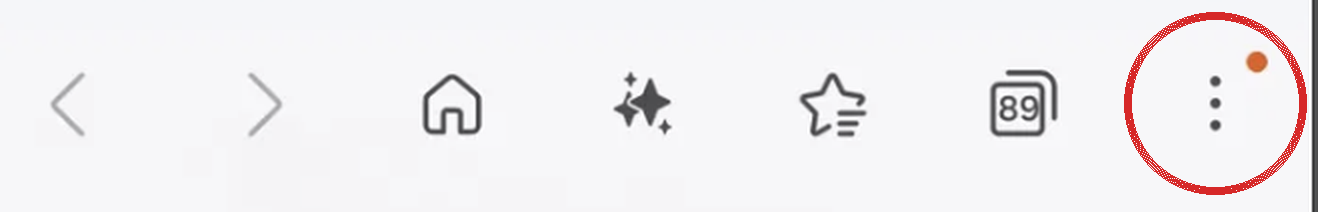
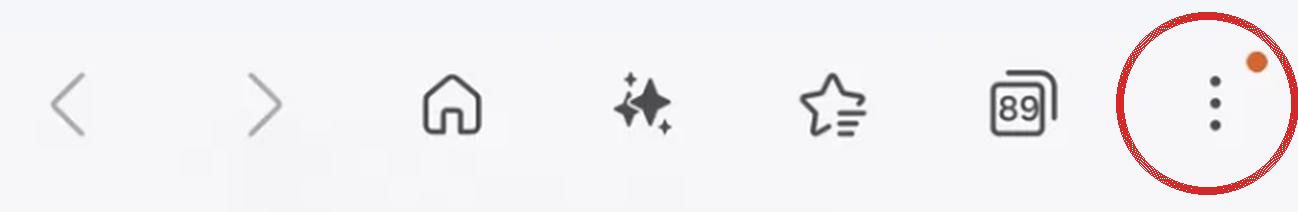
[Claude] 온라인 숙제장: 홈 화면 추가 안내 = 삼성 인터넷 그림 예시 + 기종별 방법(카톡·삼성·크롬·아이폰 Safari·아이폰 크롬), 지금 폰 표시
Claude-Session: https://claude.ai/code/session_01Mn59WHdgGtbQFkdsGzyHgj

diff --git a/hw.html b/hw.html
@@ -73,6 +73,12 @@
   .a2hs small{display:block;color:var(--muted);font-size:13px}
   .a2hs button{position:absolute;right:8px;top:8px;border:0;background:none;font-size:17px;color:var(--muted);cursor:pointer;padding:4px 6px}
   .a2st{margin-top:8px;display:flex;flex-direction:column;gap:6px}.a2st b{font-size:15px!important;color:var(--ink)!important}.a2st img{width:100%;border-radius:10px;border:1px solid var(--line);display:block}
+  .a2ex{display:inline-block;align-self:flex-start;font-size:12px;color:var(--navy);background:#fff;border:1px solid var(--gold);border-radius:99px;padding:1px 9px;margin-bottom:2px}
+  .a2st,.a2dv{margin-right:-26px}
+  .a2dv{margin-top:12px;padding-top:10px;border-top:1px dashed var(--gold);display:flex;flex-direction:column;gap:6px}
+  .a2r{background:#fff;border:1px solid var(--line);border-radius:10px;padding:7px 10px;font-size:13.5px;line-height:1.5}
+  .a2r b{display:block;font-weight:400;color:var(--navy);font-size:14px!important}.a2r i{font-style:normal;color:#B42318}
+  .a2r span{color:var(--muted)}.a2r.on{border:2px solid var(--navy)}
   .a2hs a.a2go{display:block;margin-top:10px;text-align:center;text-decoration:none;background:var(--navy);color:#fff;border-radius:12px;padding:11px 12px;font-size:16px}
 </style>
 </head>
@@ -115,9 +121,13 @@
     const ad=(()=>{try{return localStorage.getItem("enchool_a2hs_x")}catch(e){return "1"}})(),stand=(window.navigator.standalone===true)||(window.matchMedia&&matchMedia("(display-mode: standalone)").matches);
     const ua=navigator.userAgent,ios=/iphone|ipad|ipod/i.test(ua),kakao=/KAKAOTALK/i.test(ua),inapp=kakao||/NAVER\(inapp|Instagram|FBAN|FBAV|Line\/|DaumApps|everytimeApp/i.test(ua);
     /* 카톡 등 앱 안 브라우저에서는 홈 화면에 추가가 안 돼서 (2026-11-12 선생님 「카톡에서 열면 … 홈화면 추가 물어볼 것 같아」): 인터넷 앱으로 열기 버튼 → 거기서 브라우저별 안내 */
-    const how=ios?(/CriOS/i.test(ua)?"오른쪽 위 공유 버튼(□↑) → 「홈 화면에 추가」":"Safari 아래 공유 버튼(□↑) → 「홈 화면에 추가」"):/SamsungBrowser/i.test(ua)?"__SAMSUNG__":"Chrome 오른쪽 위 ⋮ → 「설치 및 바로가기 만들기」 (또는 「홈 화면에 추가」)";
+    /* 2026-11-12 선생님 「이걸 예시로 해두고 아래에 기종별로 방법안내」: 삼성 인터넷 그림을 예시로, 아래에 기종별 방법 — 지금 폰 줄은 표시 */
+    const cur=kakao?"kakao":ios?(/CriOS/i.test(ua)?"ichrome":"safari"):/SamsungBrowser/i.test(ua)?"samsung":"chrome";
+    const ROWS=[["kakao","💬 카톡에서 열었을 때","「인터넷에서 열기」 버튼 → 열린 화면의 안내대로"],["samsung","📱 삼성 인터넷","아래 오른쪽 점 세 개(⋮) → 「현재 페이지 추가」 → 「홈 화면」"],["chrome","📱 안드로이드 크롬","위 오른쪽 점 세 개(⋮) → 「설치 및 바로가기 만들기」(또는 「홈 화면에 추가」)"],["safari","🍎 아이폰 Safari","아래 공유 버튼(□↑) → 「홈 화면에 추가」"],["ichrome","🍎 아이폰 크롬","주소창 오른쪽 공유 버튼(□↑) → 「홈 화면에 추가」"]];
     const app=ios?"Safari":"인터넷(크롬)";
-    return (!ad&&!stand?`<section class="a2hs" id="a2hs"><button type="button" id="a2x" aria-label="닫기">✕</button><b>📌 홈 화면에 추가해 두세요</b><br>다음부터 아이콘만 누르면 내 숙제가 바로 나와요.${inapp?`<small>${kakao?"카톡":"이 앱"} 안에서는 홈 화면에 추가가 안 돼요. 아래 버튼을 눌러 ${app}에서 연 다음, 거기 나오는 안내대로 추가해 주세요.</small>${kakao?`<a class="a2go" href="kakaotalk://web/openExternal?url=${encodeURIComponent(location.href)}">🌐 ${app}에서 열기</a>`:`<small>오른쪽 위나 아래 ⋮ / ⋯ 메뉴 → 「다른 브라우저로 열기」</small>`}`:(how==="__SAMSUNG__"?`<div class="a2st"><b>① 아래 점 세 개(⋮)를 눌러요</b><img src="hw-a2hs-samsung.png" alt="화면 아래 오른쪽 점 세 개"><b>② 「현재 페이지 추가」 → 「홈 화면」</b></div>`:`<small>${how}</small>`)}</section>`:"")
+    return (!ad&&!stand?`<section class="a2hs" id="a2hs"><button type="button" id="a2x" aria-label="닫기">✕</button><b>📌 홈 화면에 추가해 두세요</b><br>다음부터 아이콘만 누르면 내 숙제가 바로 나와요.${kakao?`<small>카톡 안에서는 홈 화면에 추가가 안 돼요. 아래 버튼을 눌러 ${app}에서 연 다음 추가해 주세요.</small><a class="a2go" href="kakaotalk://web/openExternal?url=${encodeURIComponent(location.href)}">🌐 ${app}에서 열기</a>`:inapp?`<small>이 앱 안에서는 홈 화면에 추가가 안 돼요. ⋮ / ⋯ 메뉴 → 「다른 브라우저로 열기」 다음 추가해 주세요.</small>`:""}
+      <div class="a2st"><span class="a2ex">예시 · 삼성 인터넷</span><b>① 아래 점 세 개(⋮)를 눌러요</b><img src="hw-a2hs-samsung.png" alt="화면 아래 오른쪽 점 세 개"><b>② 「현재 페이지 추가」 → 「홈 화면」</b></div>
+      <div class="a2dv"><span class="a2ex">기종별 방법</span>${ROWS.map(([k,n,t])=>`<div class="a2r${k===cur?" on":""}"><b>${n}${k===cur?` <i>← 지금 이 폰</i>`:""}</b><span>${t}</span></div>`).join("")}</div></section>`:"")
      +(b?`<div class="tabs"><button type="button" class="tab${KID.cur===KID.i?" on":""}" data-k="${KID.i}">이번 숙제 · ${mds(a.d)}</button><button type="button" class="tab${KID.cur===KID.i+1?" on":""}" data-k="${KID.i+1}">지난 숙제 · ${mds(b.d)}</button></div>`:"")}
   function wireTabs(){const x=$("#a2x");if(x)x.addEventListener("click",()=>{try{localStorage.setItem("enchool_a2hs_x","1")}catch(e){}$("#a2hs").remove()});
     document.querySelectorAll(".tab").forEach(t=>t.addEventListener("click",()=>{KID.cur=+t.dataset.k;draw(KID.L[KID.cur]);scrollTo(0,0)}))}
